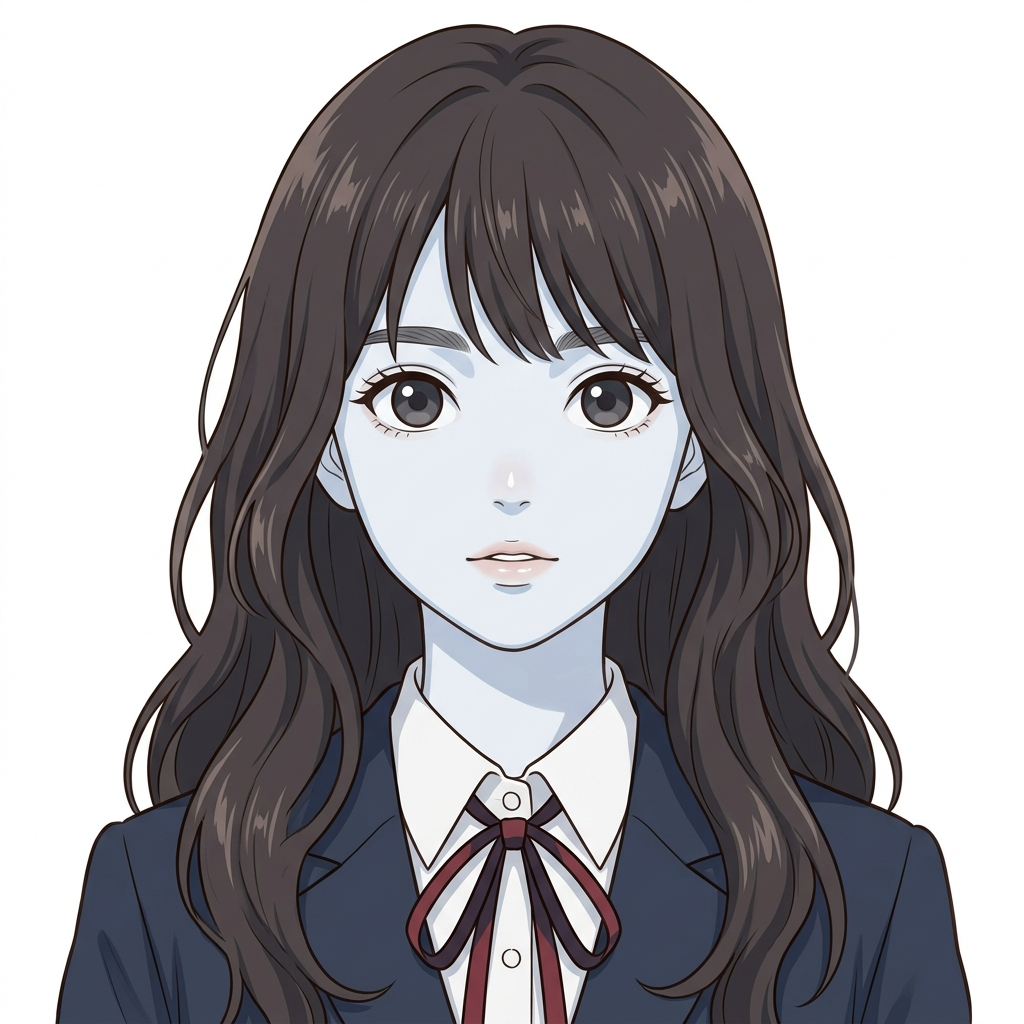
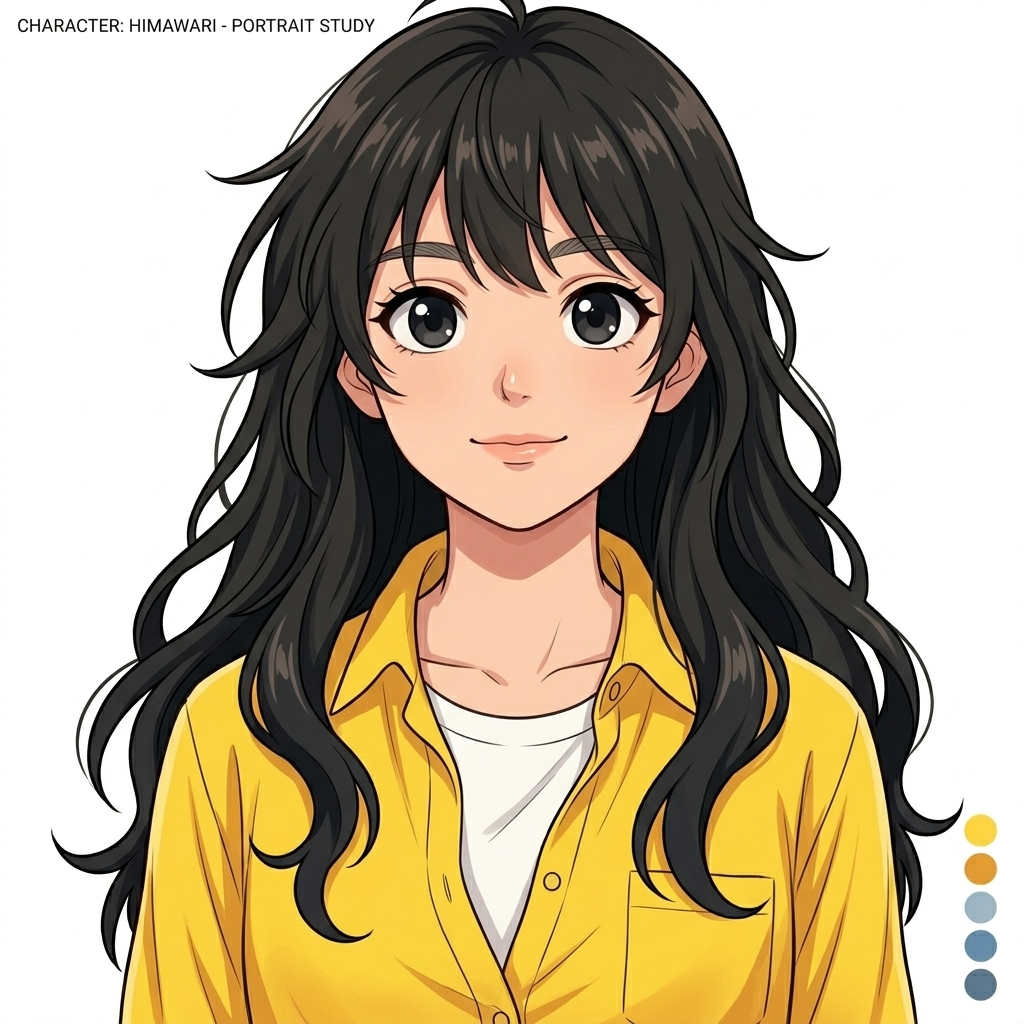
Add full-fidelity Flux prompts for the accuracy test
Flux pairs T5 with CLIP and does not cut off at 77 tokens, so the canon
that had to be thrown away for SD1.5 and SDXL fits in one prompt. The
momoka full-body prompt runs about 317 tokens; under the old limit some
240 of those were being silently discarded, which is why the eyebrows,
the mole, the inner double eyelids and the low-contrast instruction
never reached any earlier render.

Written as prose rather than stacked tags, since T5 reads sentences.
Every clause traces to a line in the character note, so anything the
render gets wrong is a measurable miss rather than a matter of taste -
which is the point of a fidelity test.

Also stage the outfit images and note edits made outside this session.

diff --git a/wiki/characters/himawari/expressions.md b/wiki/characters/himawari/expressions.md
@@ -28,12 +28,12 @@ tags: [expressions, character/kaneshiro-himawari, season/夏]
 | **発生タイミング** | 章の序盤・日常会話・社会的対応 |
 | **状態** | `done` — 生成完了 |
 
-| 参照画像 | 意図 |
-| :---: | :--- |
-| ![通常](../assets/characters/himawari/face/himawari_face_neutral.jpg) | 涼しげで素直な日常の顔。ペルソナを維持した無防備な状態。 |
+|                                 参照画像                                  | 意図                           |
+| :-------------------------------------------------------------------: | :--------------------------- |
+| ![通常](wiki/assets/characters/himawari/face/himawari_face_neutral.jpg) | 涼しげで素直な日常の顔。ペルソナを維持した無防備な状態。 |
 
 ```text
-18yo japanese high school girl, cheerful and popular, tall curvy athletic build, 170cm, long soft dark brown to black wavy hair with a bluish cast, bangs down, unstyled, large round eyes, wide double eyelids, big dark irises, expressive, bright open expression, large round eyes fully visible, thick brows level, mouth in an easy line, bust-up portrait, head and shoulders, facing viewer, plain neutral background, even soft lighting, cool summer palette, low contrast, pale bluish skin
+18yo japanese high school girl, cheerful and popular, tall curvy athletic build, 170cm, long soft dark brown to black wavy hair with a bluish cast, bangs down, unstyled, large round eyes, wide double eyelids, big dark irises, thick soft grey-brown eyebrows, vivid sunny yellow long sleeve button-up cotton shirt, top buttons undone, white undershirt underneath, bright open expression, large round eyes fully visible, thick brows level, mouth in an easy line, bust-up portrait, head and shoulders, facing viewer, plain neutral background, even soft lighting, cool summer palette, pale fair skin, healthy clear complexion
 ```
 
 ## 2. 笑顔・安堵（Smile）
@@ -44,12 +44,12 @@ tags: [expressions, character/kaneshiro-himawari, season/夏]
 | **発生タイミング** | 良好な他者対応・危機を脱した錯覚 |
 | **状態** | `done` — 生成完了 |
 
-| 参照画像 | 意図 |
-| :---: | :--- |
-| ![笑顔](../assets/characters/himawari/face/himawari_face_smile.jpg) | 太陽のように輝く無防備な笑顔。瞳が弾け頬が上がる。 |
+|                                参照画像                                 | 意図                        |
+| :-----------------------------------------------------------------: | :------------------------ |
+| ![笑顔](wiki/assets/characters/himawari/face/himawari_face_smile.jpg) | 太陽のように輝く無防備な笑顔。瞳が弾け頬が上がる。 |
 
 ```text
-18yo japanese high school girl, cheerful and popular, tall curvy athletic build, 170cm, long soft dark brown to black wavy hair with a bluish cast, bangs down, unstyled, large round eyes, wide double eyelids, big dark irises, expressive, wide unguarded grin, eyes crinkling almost shut, cheeks lifted, radiant and careless, bust-up portrait, head and shoulders, facing viewer, plain neutral background, even soft lighting, cool summer palette, low contrast, pale bluish skin
+18yo japanese high school girl, cheerful and popular, tall curvy athletic build, 170cm, long soft dark brown to black wavy hair with a bluish cast, bangs down, unstyled, large round eyes, wide double eyelids, big dark irises, thick soft grey-brown eyebrows, vivid sunny yellow long sleeve button-up cotton shirt, top buttons undone, white undershirt underneath, wide unguarded grin, eyes crinkling almost shut, cheeks lifted, radiant and careless, bust-up portrait, head and shoulders, facing viewer, plain neutral background, even soft lighting, cool summer palette, pale fair skin, healthy clear complexion
 ```
 
 ## 3. 警戒・違和感（Suspicion）
@@ -60,12 +60,12 @@ tags: [expressions, character/kaneshiro-himawari, season/夏]
 | **発生タイミング** | 罠の気配・逃げ場の喪失の予感 |
 | **状態** | `done` — 生成完了 |
 
-| 参照画像 | 意図 |
-| :---: | :--- |
-| ![警戒](../assets/characters/himawari/face/himawari_face_suspicion.jpg) | 笑顔がすっと引く。太い眉が寄り、異変への戸惑い。 |
+|                                  参照画像                                   | 意図                       |
+| :---------------------------------------------------------------------: | :----------------------- |
+| ![警戒](wiki/assets/characters/himawari/face/himawari_face_suspicion.jpg) | 笑顔がすっと引く。太い眉が寄り、異変への戸惑い。 |
 
 ```text
-18yo japanese high school girl, cheerful and popular, tall curvy athletic build, 170cm, long soft dark brown to black wavy hair with a bluish cast, bangs down, unstyled, large round eyes, wide double eyelids, big dark irises, expressive, round eyes going still, thick brows knitting, smile draining away mid-expression, head tilting back slightly, bust-up portrait, head and shoulders, facing viewer, plain neutral background, even soft lighting, cool summer palette, low contrast, pale bluish skin
+18yo japanese high school girl, cheerful and popular, tall curvy athletic build, 170cm, long soft dark brown to black wavy hair with a bluish cast, bangs down, unstyled, large round eyes, wide double eyelids, big dark irises, thick soft grey-brown eyebrows, vivid sunny yellow long sleeve button-up cotton shirt, top buttons undone, white undershirt underneath, round eyes going still and staring, thick brows knitting in concern, smile draining away mid-expression, bust-up portrait, head and shoulders, facing viewer, plain neutral background, even soft lighting, cool summer palette, pale fair skin, healthy clear complexion
 ```
 
 ## 4. 抑圧・冷や汗（Anxiety）
@@ -76,12 +76,12 @@ tags: [expressions, character/kaneshiro-himawari, season/夏]
 | **発生タイミング** | 耐えている最中 |
 | **状態** | `done` — 生成完了 |
 
-| 参照画像 | 意図 |
-| :---: | :--- |
-| ![抑圧・冷や汗](../assets/characters/himawari/expr/himawari_expr_anxiety_base.jpg) | 眉が角度を増し、額に冷や汗が浮かぶ。必死に噛み締める唇。 |
+|                                   参照画像                                    | 意図                           |
+| :-----------------------------------------------------------------------: | :--------------------------- |
+| ![抑圧・冷や汗](wiki/assets/characters/himawari/face/himawari_face_anxiety.jpg) | 眉が角度を増し、額に冷や汗が浮かぶ。必死に噛み締める唇。 |
 
 ```text
-18yo japanese high school girl, cheerful and popular, tall curvy athletic build, 170cm, long soft dark brown to black wavy hair with a bluish cast, bangs down, unstyled, large round eyes, wide double eyelids, big dark irises, expressive, brows steeply angled, cold sweat at the hairline, teeth clamped on the lower lip, big eyes darting, breath held, bust-up portrait, head and shoulders, facing viewer, plain neutral background, even soft lighting, cool summer palette, low contrast, pale bluish skin
+18yo japanese high school girl, cheerful and popular, tall curvy athletic build, 170cm, long soft dark brown to black wavy hair with a bluish cast, bangs down, unstyled, large round eyes, wide double eyelids, big dark irises, thick soft grey-brown eyebrows, vivid sunny yellow long sleeve button-up cotton shirt, top buttons undone, white undershirt underneath, brows steeply angled, cold sweat at the hairline and forehead, teeth clamped on lower lip, big eyes darting, breath held, bust-up portrait, head and shoulders, facing viewer, plain neutral background, even soft lighting, cool summer palette, pale fair skin, healthy clear complexion
 ```
 
 ## 5. 狼狽・大赤面（Panic）
@@ -92,12 +92,12 @@ tags: [expressions, character/kaneshiro-himawari, season/夏]
 | **発生タイミング** | 露出・失禁の直前〜直後 |
 | **状態** | `done` — 生成完了 |
 
-| 参照画像 | 意図 |
-| :---: | :--- |
-| ![狼狽・大赤面](../assets/characters/himawari/expr/himawari_expr_blush_base.jpg) | 頬中央に鮮烈な円形の赤面。涙目の瞳、崩れた眉。 |
+|                                  参照画像                                   | 意図                      |
+| :---------------------------------------------------------------------: | :---------------------- |
+| ![狼狽・大赤面](wiki/assets/characters/himawari/face/himawari_face_panic.jpg) | 頬中央に鮮烈な円形の赤面。涙目の瞳、崩れた眉。 |
 
 ```text
-18yo japanese high school girl, cheerful and popular, tall curvy athletic build, 170cm, long soft dark brown to black wavy hair with a bluish cast, bangs down, unstyled, large round eyes, wide double eyelids, big dark irises, expressive, violent circular blush on both cheeks spreading to the collarbone, eyes enormous and streaming, mouth wide open, brows collapsed, bust-up portrait, head and shoulders, facing viewer, plain neutral background, even soft lighting, cool summer palette, low contrast, pale bluish skin
+18yo japanese high school girl, cheerful and popular, tall curvy athletic build, 170cm, long soft dark brown to black wavy hair with a bluish cast, bangs down, unstyled, large round eyes, wide double eyelids, big dark irises, thick soft grey-brown eyebrows, vivid sunny yellow long sleeve button-up cotton shirt, top buttons undone, white undershirt underneath, violent circular blush on both cheeks spreading to neck and ears, eyes enormous and streaming with tears, mouth wide open in despair, brows collapsed, bust-up portrait, head and shoulders, facing viewer, plain neutral background, even soft lighting, cool summer palette, pale fair skin, healthy clear complexion
 ```
 
 ## 6. 虚脱・完全適応（Acceptance）
@@ -108,10 +108,10 @@ tags: [expressions, character/kaneshiro-himawari, season/夏]
 | **発生タイミング** | 屈服・完全適応の結末 |
 | **状態** | `done` — 生成完了 |
 
-| 参照画像 | 意図 |
-| :---: | :--- |
-| ![虚脱・完全適応](../assets/characters/himawari/expr/himawari_expr_collapse_base.jpg) | 光の消えた大きな瞳。微かな諦念の笑み。 |
+|                                     参照画像                                      | 意図                  |
+| :---------------------------------------------------------------------------: | :------------------ |
+| ![虚脱・完全適応](wiki/assets/characters/himawari/face/himawari_face_acceptance.jpg) | 光の消えた大きな瞳。微かな諦念の笑み。 |
 
 ```text
-18yo japanese high school girl, cheerful and popular, tall curvy athletic build, 170cm, long soft dark brown to black wavy hair with a bluish cast, bangs down, unstyled, large round eyes, wide double eyelids, big dark irises, expressive, large eyes emptied of light, staring past the viewer, mouth hanging slightly open, faint bewildered smile, tear tracks drying, bust-up portrait, head and shoulders, facing viewer, plain neutral background, even soft lighting, cool summer palette, low contrast, pale bluish skin
+18yo japanese high school girl, cheerful and popular, tall curvy athletic build, 170cm, long soft dark brown to black wavy hair with a bluish cast, bangs down, unstyled, large round eyes, wide double eyelids, big dark irises, thick soft grey-brown eyebrows, vivid sunny yellow long sleeve button-up cotton shirt, top buttons undone, white undershirt underneath, large eyes emptied of light, dull hollow stare past viewer, mouth slack with faint bewildered smile, dried tear tracks on pale cheeks, bust-up portrait, head and shoulders, facing viewer, plain neutral background, even soft lighting, cool summer palette, pale fair skin, healthy clear complexion
 ```
